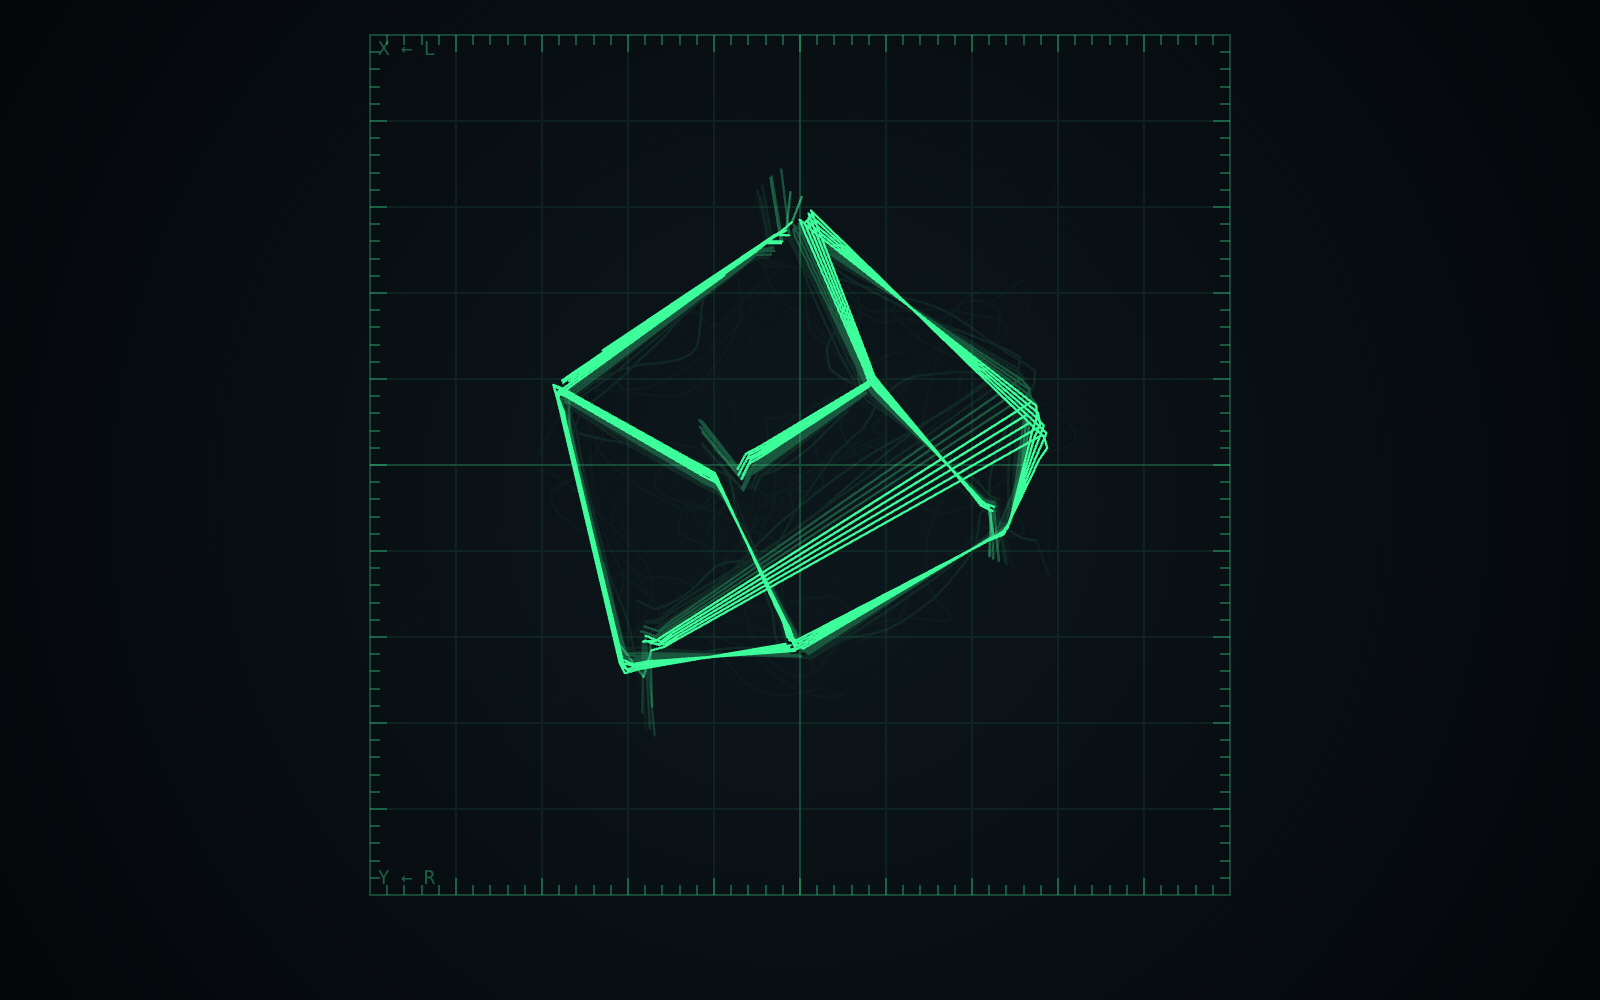
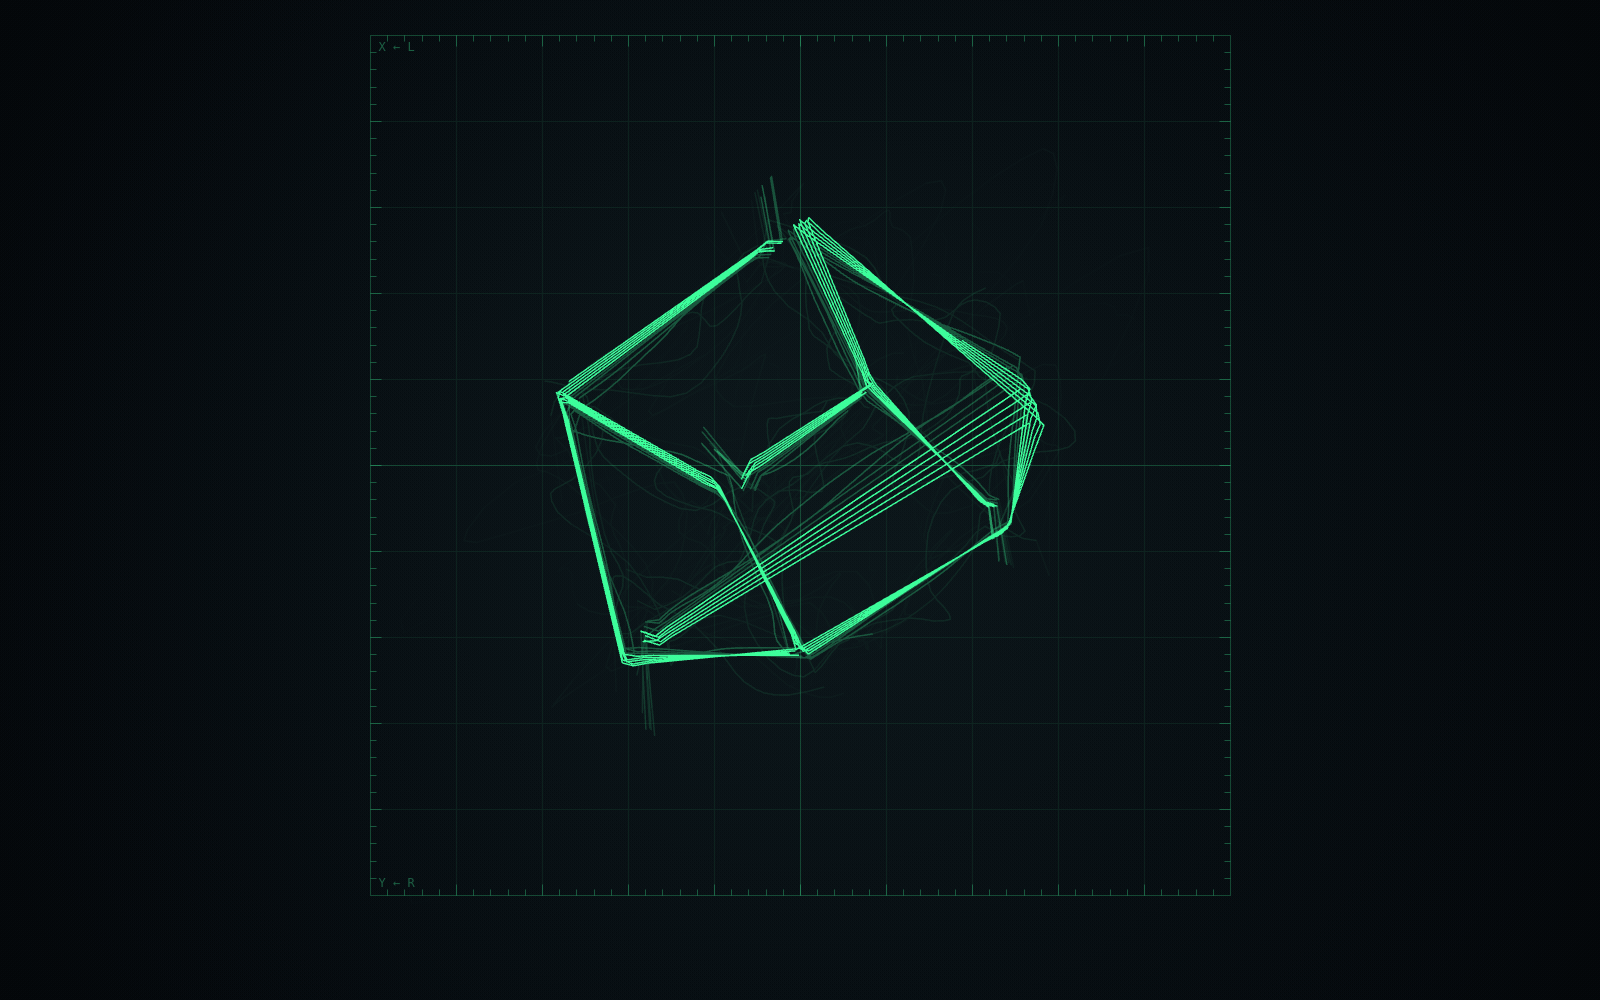
Per-track settings, not one global "best"; add the Primer preview
The previous README gave one blanket recommendation (1024 / 16%). That was
wrong: it is the recipe for a STROKE piece like Oscillofun, and it destroys
a FILLED piece like Primer. The two wants are opposite.

  stroke (Oscillofun): 1024 window, 16% persistence, 1.15 line  -> see the
                       actual beam path instead of trail buildup
  filled (Primer):     4096 window, 32% persistence, 2.3 line   -> pile the
                       area up solid

Checked at the same moment of Primer (t=40s): the stroke recipe shatters the
sphere into outline fragments, the stock 62% persistence smears it into noise
with stray edges, and only the 4096/32%/2.3 row gives a clean solid sphere.

Also recaptured all screenshots at 1280x800 CSS @1.25x instead of 800x500 @2x.
lineWidth is in CSS pixels, so the smaller viewport was rendering the beam
~1.6x too heavy relative to the figure compared with what was tuned.

diff --git a/README.md b/README.md
@@ -4,8 +4,8 @@
 
 ![预览](docs/preview.png)
 
-> 预览图：`oscillofun.flac` @ 20s，采样窗口 1024、余辉 16%、增益 1.45。
-> 余辉压低才看得到**真正的束径**，而不是拖尾叠加出来的一团糊。
+> `oscillofun.flac` @ 20s —— **描边型**曲子的参数：窗口 1024、余辉 16%、增益 1.45。
+> 余辉压低才看得到真正的束径，而不是拖尾叠加出来的一团糊。
 
 **两个硬性要求：没有回扫线，没有辉光。** 两条都是量出来的，不是嘴上保证：
 
@@ -54,8 +54,24 @@ node build-standalone.js   # 改完 public/ 后重新生成单文件版
 | `,` `.` | 上一首 / 下一首 | `O` | 性能模式开关 |
 | `B` `T` `G` | 速度消隐 / 相位锁定 / 网格 | `R` | 恢复默认设置 |
 
-**示波器音乐的推荐参数**：采样窗口 **1024**、余辉 **16%**、增益 **1.4** 上下。
-窗口小 + 余辉低 = 看得清笔画；窗口拉到 32768 配高余辉只会糊成一团。
+### 参数跟着曲子走，没有通用最优
+
+描边型和填充型的要求正好相反：
+
+| | 采样窗口 | 余辉 | 线宽 | |
+|---|---|---|---|---|
+| **描边型** · `oscillofun.flac` | **1024** | **16%** | 1.15 | 就是上面那张预览图 |
+| **填充型** · `primer-final.flac` | **4096** | **32%** | **2.3** | ↓ |
+
+![填充型：primer-final.flac](docs/preview-primer.png)
+
+判断方法：**这首曲子在画线，还是在画面？**
+
+- **画线**的（Oscillofun）压低余辉、缩小窗口，让真正的束径露出来；
+- **画面**的（Primer）反过来 —— 用窗口和余辉把面积堆实，线宽也得跟上。
+
+同一段 Primer 换参数就能看出这不是玄学：描边配方（1024/16%）会让球体碎成几段
+轮廓，默认的 62% 余辉又会堆积过头、边缘飞出杂线；只有中间这一档是干净的实心球体。
 
 ---
 
